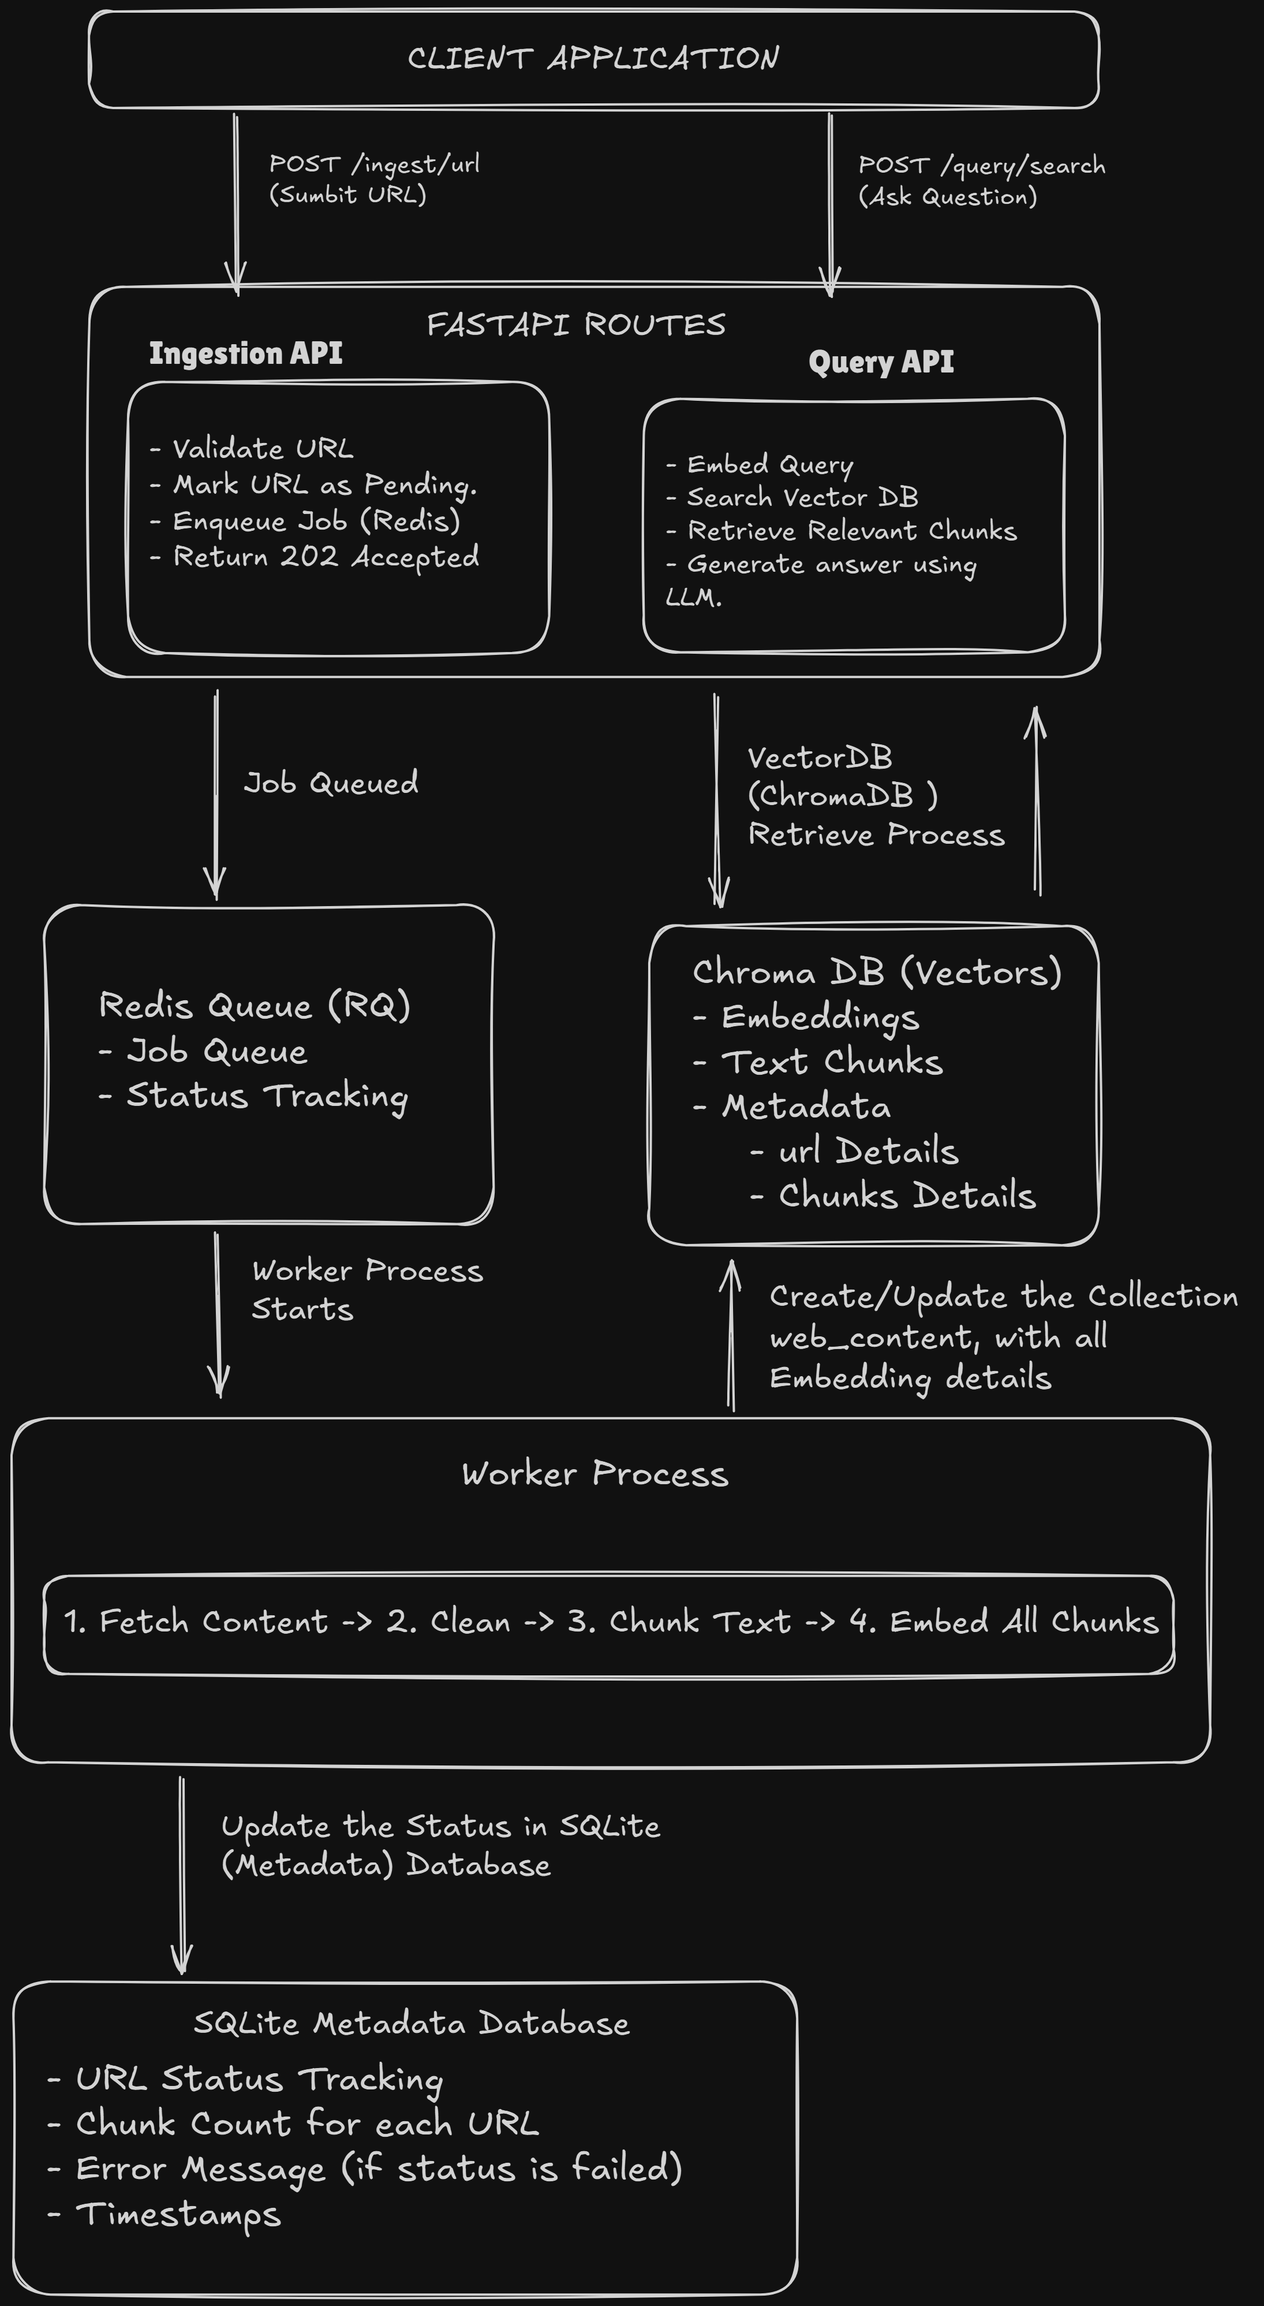
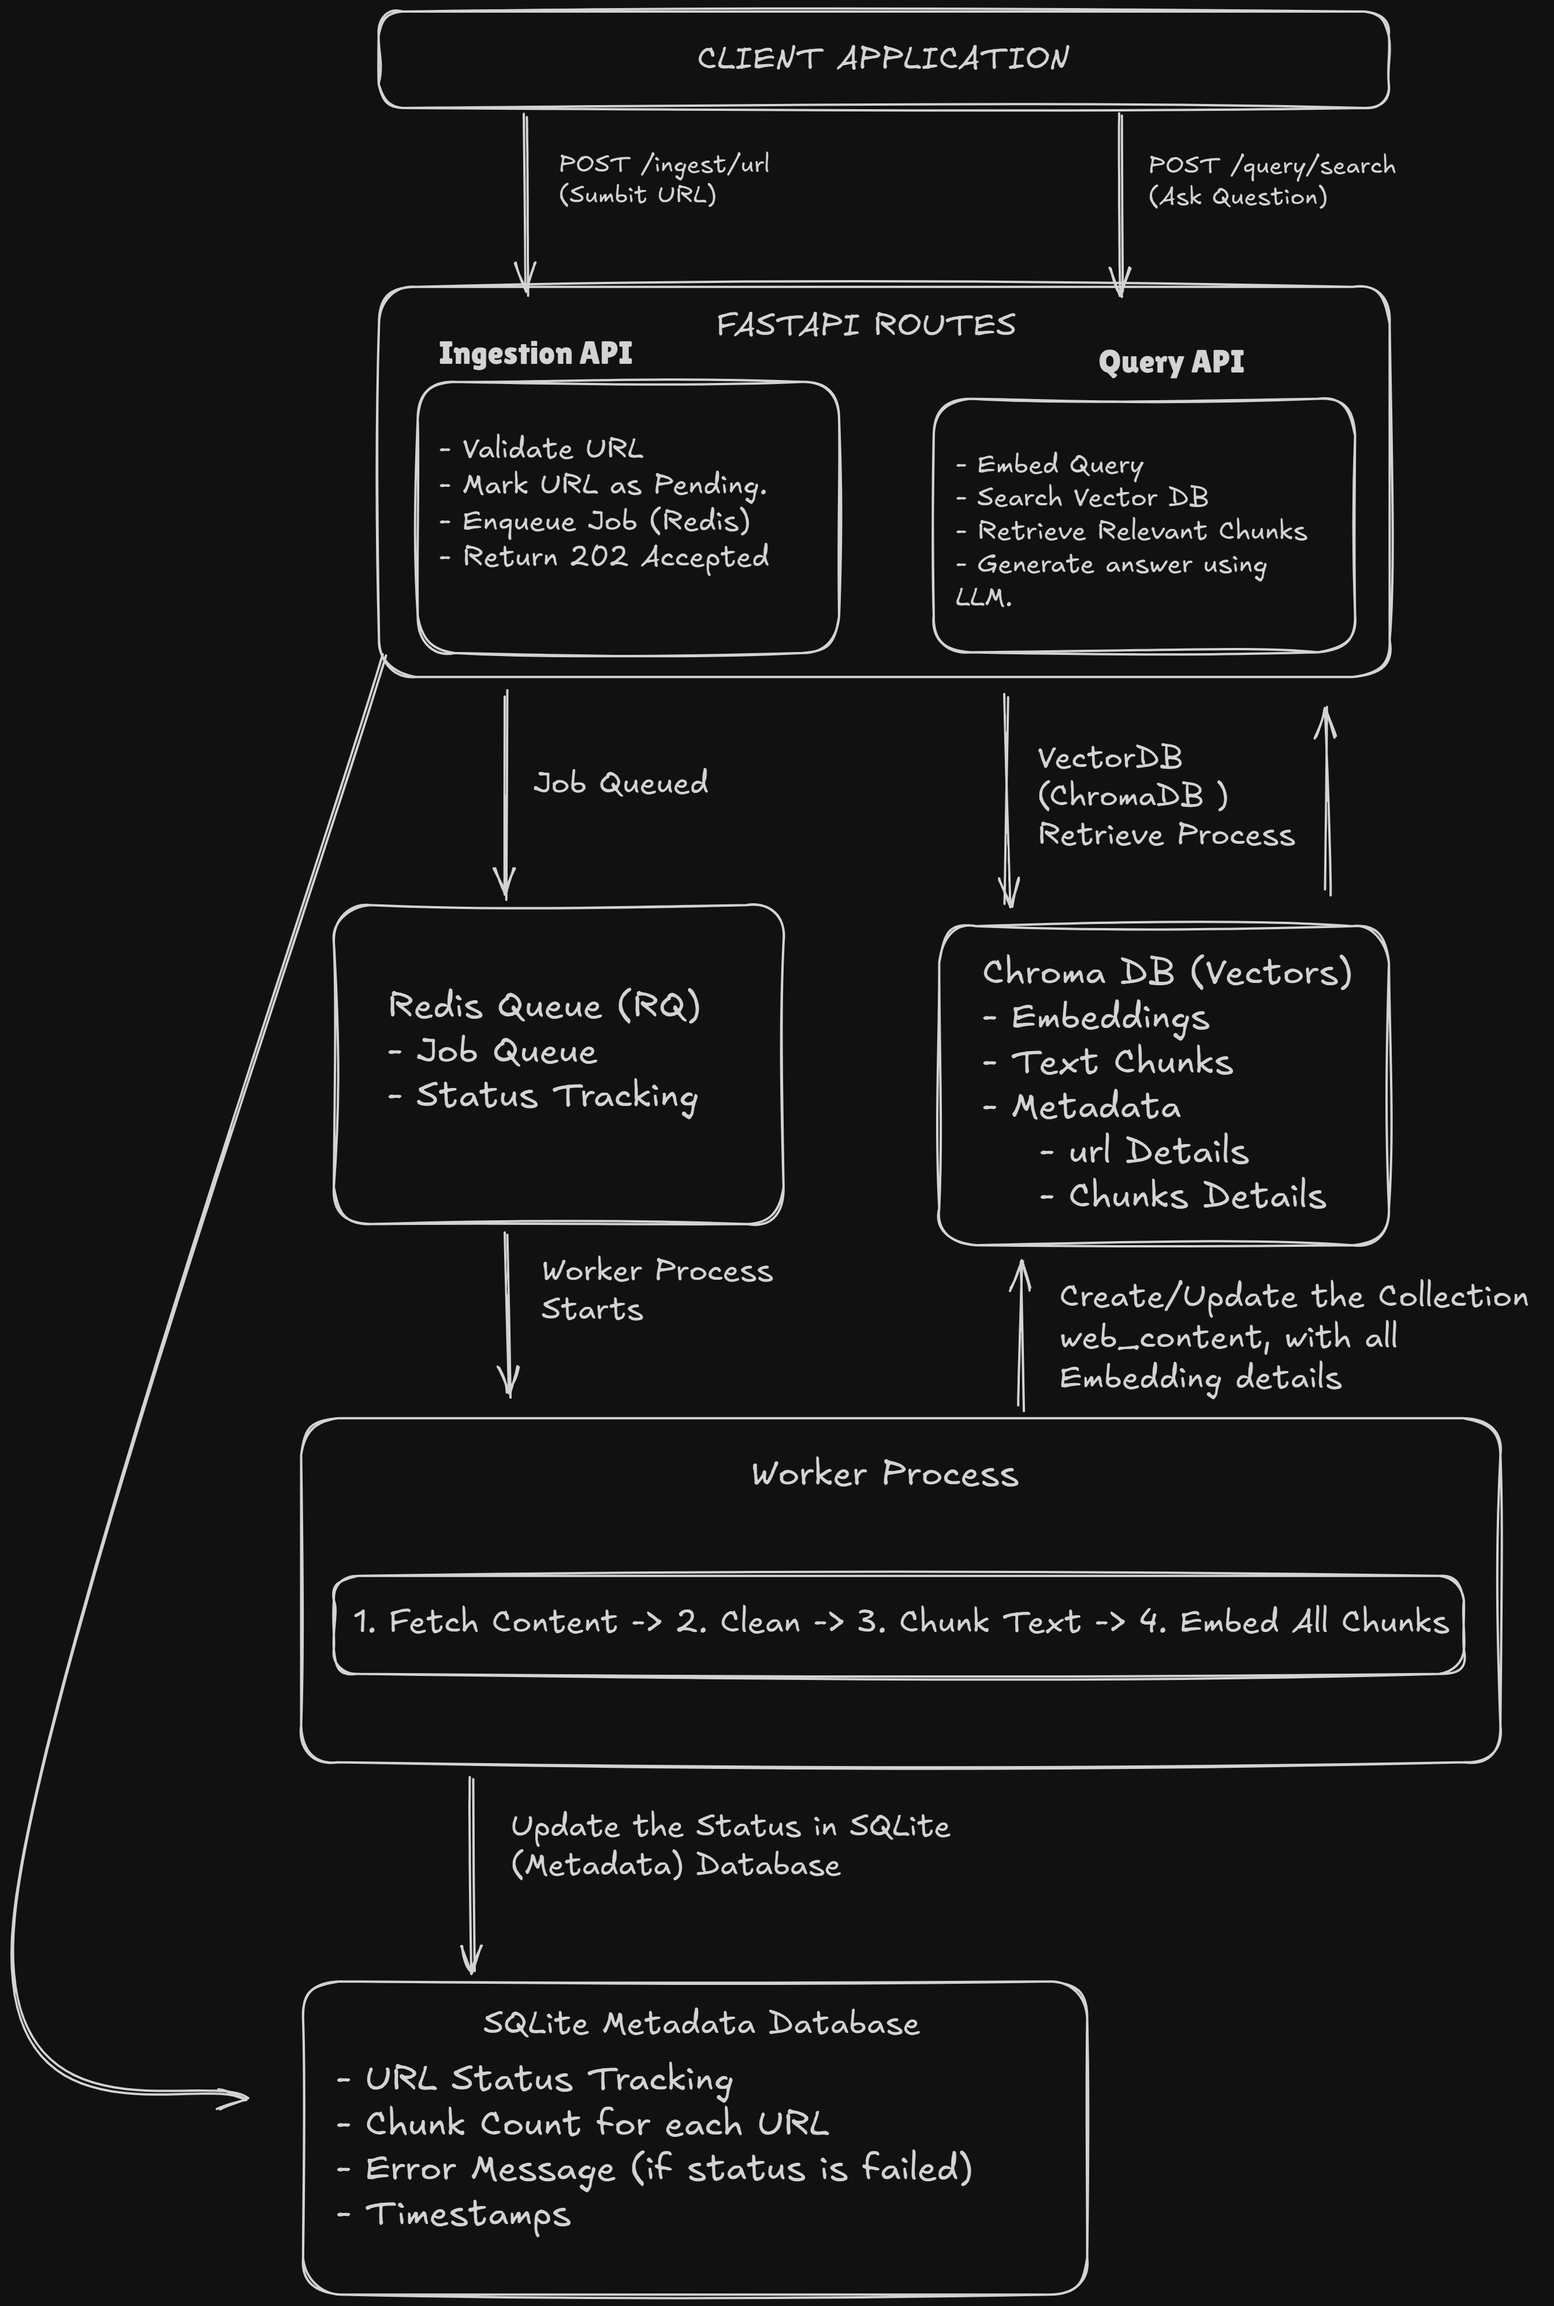
Added the Demo Video link in the ReadME, and slightly update the Diagram

diff --git a/README.md b/README.md
@@ -4,6 +4,8 @@
 
 ## Table of Contents
 
+
+- [Demo Video](https://drive.google.com/file/d/1621dPJ_c8_jmcjfV9vlcBbOQzTSHk2a-/view?usp=sharing) 
 - [Overview](#overview)
 - [System Architecture](#system-architecture)
 - [Technology Stack](#technology-stack)
@@ -33,6 +35,7 @@ This RAG engine allows users to submit URLs for background processing, where con
 ### Architecture Diagram
 
 ![diagram](architecture_diagram.png)
+
 
 ### Data Flow
 
